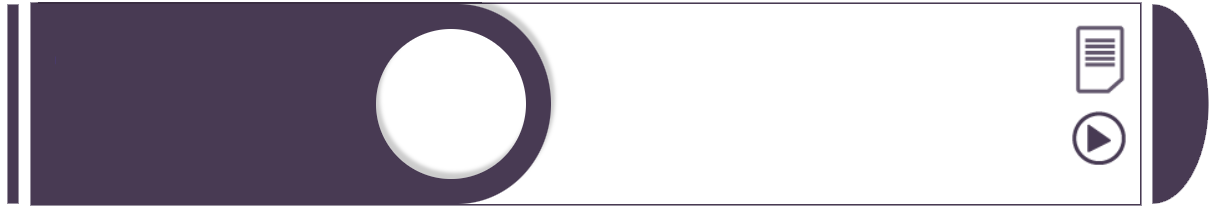
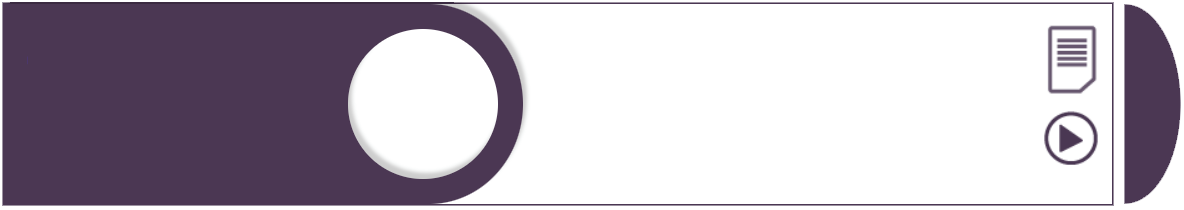
pat

Changed region(s): [[0.2812, 0.0, 0.4688, 0.9714], [0.875, 0.0, 0.9688, 0.9714], [0.0, 0.0, 0.0312, 1.0]]

diff --git a/Групповая политика/index.html b/Групповая политика/index.html
@@ -15,7 +15,7 @@
         <div class="container">
             <div class="inner">
                 <nav>
-                    <img src="image/logo.png" width="50" height="34" alt="">
+                    <img id="log" src="image/logo.png">
                     <a href="#openModal">
                         <h3>Информация<br> о контенте</h3>
                     </a>
@@ -32,7 +32,7 @@
         <div class="container">
             <div class="inner lines__views">
                 <h2>ТЕМА</h2>
-                <h2 style="color: black; font-size: 48px;">Администрирование Windows Server 2019</h2>
+                <h2 id="tema">Администрирование Windows Server 2019</h2>
                 <h2>СПО</h2>
             </div>
         </div>
@@ -41,13 +41,14 @@
     <div class="dish">
         <div class="container">
             <div class="dish__inner">
-                <div style="margin-right: 20%; margin-top: 4%;">
+            <div id="dishk">
+            
                     <div class="dish__block">
                         <div class="eurhgierug">
                           <a href="eom1/place.html">
-                            <img src="image/1.png" width="760" height="120" alt="">
+                            <img class="placef" src="image/1.png">
                           </a>
-                          <img class="ghgwreg" width="66" height="66" style="margin-bottom: 30px;" src="image/icon/1.png" alt="">
+                          <img class="ghgwreg"src="image/icon/1.png" >
                           <div class="ilehufrierg"></div>
                           <h3 class="iehrgie">Планирование материально<br>- техническое обеспечение</h3>
                           <h3 class="engoergegr">Освоение нового<br> материала</h3>
@@ -58,9 +59,9 @@
                         </div>
                         <div class="eurhgierug">
                           <a href="eom2/place2-1.html">
-                            <img src="image/2.png" width="760" height="120" alt="">
+                            <img class="placef"src="image/2.png">
                           </a>
-                          <img class="ghgwreg" width="66" height="66" src="image/icon/2.png" alt="">
+                          <img class="ghgwreg" src="image/icon/2.png">
                           <div class="ilehufrierg"></div>
                           <h3 class="iehrgie">Организация произведенно<br>технического обеспечения АПК</h3>
                           <h3 class="engoergegr">Применение<br> изученного<br> материала</h3>
@@ -71,10 +72,10 @@
                         </div>
                         <div class="eurhgierug">
                           <a href="eom3/quiz.html">
-                            <img src="image/3.png" width="760" height="120" alt="">
+                            <img class="placef" src="image/3.png">
                           </a>
-                          <img class="ghgwreg" width="66" height="66" src="image/icon/3.png" alt="">
-                          <div class="ilehufrierg" style="top: 53px;"></div>
+                          <img class="ghgwreg"src="image/icon/3.png">
+                          <div class="ilehufrierg" ></div>
                           <h3 class="iehrgie">Организация произведенно<br>технического обеспечения АПК</h3>
                           <h3 class="engoergegr">Диагностика<br> приобретенных<br> знаний, навыков</h3>
                           <p class="modals__text">Интарактивный тренажер по выполнению заданий</p>
@@ -83,14 +84,14 @@
                           </a>
                         </div>
                     </div>
-                </div>
-                <div   style="margin-top: -20px;margin-right: 50px;">
-                    <img src="image/set.png" alt="">
+          </div>
+                <div class="sets">
+                    <img src="image/set.png">
                     <div class="dish__text">
                         <h3>ФГОС СПО 09.02.06</h3>
                         <h4>Сетевое и системное адмнистрирование квалификация «системный администратор»</h4>
                         <h3>МДК 02.01</h3>
-                        <h4>МДК 02.01 Администрирование сетевых операционных систем</h4>
+                        <h4>Администрирование сетевых операционных систем</h4>
                     </div>
                 </div>
             </div>
@@ -108,10 +109,7 @@
               <p>Федеральный государственный образовательный стандарт среднего профессионального образования по специальности 09.02.07 «Информационные системы и программирование»
                 (утвержден приказом Минобрнауки России от 09.12.2016 №1547)</p>
             </div>
-            <!--<h3 class="modal-title">ПООП Профессионалитета:</h3>
-            <div class="modal-body">    
-              <p>54.02.01 Дизайн (по остраслям) утвержденный приказом Министерства просвещения РФ от 23 ноября 2020 г. N 658 </p>
-              </div>!-->
+  
             <h3 class="modal-title">Профессиональный модуль:</h3>
             <div class="modal-body">    
                 <p>09.02.06 Сетевое и системное администрирование</p>
@@ -175,7 +173,7 @@
                 <h3 class="modal-title">Рекомендации для преподавателя:</h3>
             </div>
             <div class="modal-body">  
-              <hr style="margin: 25px 0px;">
+              <hr>
               <p>
                 <ul>  
                 <li>организовать практическую, в т.ч. самостоятельную, деятельность обучающихся для отработки навыков решения определенных учебных заданий;
@@ -224,7 +222,7 @@
                 <li>Организовать просмотр динамической инфографики и последующую беседу по уточнению и конкретизации
                   </ul>
 
-              <hr style="margin: 25px 0px;">
+              <hr>
               <h3 class="modal-title">Рекомендации для преподавателя:</h3>
               <p>
                 <ul>  
@@ -270,10 +268,9 @@
                               <li>     При возникновении ошибок возвращайтесь к повторному изучению теоретического материала.
                 </ul>
 
-            <hr style="margin: 25px 0px;">
+            <hr>
             <h3 class="modal-title">Рекомендации для преподавателя:</h3>
             <p>
-              Преподаватель должен 
               <ul>  
               <li>организовать практическую, в т.ч. самостоятельную, деятельность обучающихся для отработки навыков решения определенных учебных заданий;
                 <li>обеспечить усвоение обучающимися знаний и способов действий на уровне применения их в разнообразных ситуациях;

diff --git a/Групповая политика/css/style.css b/Групповая политика/css/style.css
@@ -1,13 +1,17 @@
 * {
     padding: 0;
-    margin: 0;
+    margin: 0px;
     box-sizing: border-box;
     font-family: 'Roboto', sans-serif;
+    min-height: auto;
+    min-width: auto
 }
 
 body {
-    background: url(../image/back.png);
     background-size: cover;
+    margin: 10px 10px 0px 10px;
+    min-height: auto;
+    min-width: auto;
 }
 
 header {
@@ -15,19 +19,27 @@ header {
 }
 
 .container {
-    max-width: 96%;
+    
     margin: 0 auto;
     height: auto;
     width: auto;
-    min-width: 1300px;
+    
 }
+#tema {
+    font-size: 36px;
+    color: #000;
 
+}
 .inner {
     display: flex;
     justify-content: space-between;
     align-items: center;
+    
 }
-
+#log{
+    width:50px;
+     height:34px; 
+    }
 nav {
     display: flex;
 }
@@ -58,15 +70,36 @@ nav > a {
 .lines__views > p {
     font-size: 27px;
 }
-
+#dishk
+{
+margin-right: 10px;
+}
 .dish {
     margin-top: 3%;
 }
+.dish__block{
+    display: block;
+    margin: 10px;
+    min-width: 30%;
+    min-height: 30%;
+    width: auto;
+    height: auto;
+}
+.sets{
+    padding-right: 60px;
+    height: auto;
+    width: auto;
+    position:static;
+
+
+}   
+
 
 .dish__inner {
     display: flex;
     justify-content: space-between;
     align-items: flex-start;
+    margin-top: -20px;
 }
 
 .dish__text {
@@ -82,8 +115,12 @@ nav > a {
 .dish__text > h4 {
     width: 400px;
     margin: 10px 0px;
+    box-sizing: border-box;
+    padding-right: 10px;
 }
-
+hr {
+    margin: 25px 0px;
+}
 .modal {
     position: fixed;
     top: 0;
@@ -197,6 +234,15 @@ td,th {
     position: relative;
     background-color: white;
 }
+.placef {
+    display: block;
+    margin: 3px;
+    min-width: 20%;
+    min-height: 20%;
+    width: 800px;
+    height: 150px;
+    box-sizing: border-box;
+}
 
 .modal__hg {
     position: absolute;
@@ -239,9 +285,12 @@ td,th {
 
 .ghgwreg {
     position: absolute;
-    top: 25px;
+    top: 35px;
     left: 250px;
+    height: 80px;
+    width: 80px;
     z-index: 9999;
+
 }
 
 .engoergegr {
@@ -250,106 +299,4 @@ td,th {
     left: 34px;
     z-index: 9999;
     color: #fff;
-}
-
-@media screen and (max-width: 768px) {
-    body {
-        background-size: auto;
-    }
-
-    .container {
-        min-width: auto;
-    }
-
-    .inner {
-        flex-direction: column;
-        align-items: center;
-        text-align: center;
-    }
-
-    nav {
-        margin-top: 20px;
-    }
-
-    nav > a {
-        display: block;
-        margin: 10px auto;
-        border: none;
-    }
-
-    .lines__views > h2 {
-        font-size: 36px;
-    }
-
-    .lines__views > p {
-        font-size: 22px;
-    }
-
-    .dish__inner {
-        flex-direction: column;
-        align-items: center;
-    }
-
-    .dish__text > h3 {
-        width: auto;
-    }
-
-    .dish__text > h4 {
-        width: auto;
-        text-align: center;
-    }
-
-    .modal-content {
-        max-width: 80%;
-    }
-
-    .modal-title {
-        font-size: 36px;
-    }
-
-    .close {
-        font-size: 30px;
-        width: 30px;
-        height: 30px;
-        line-height: 1;
-        padding: 5px;
-    }
-
-    .modal-body > p {
-        font-size: 24px;
-    }
-
-    .modal__hg,
-    .modals__text,
-    .ilehufrierg,
-    .iehrgie,
-    .ghgwreg,
-    .engoergegr {
-        display: none;
-    }
-}
-
-@media screen and (max-width: 768px) {
-    .eurhgierug {
-        margin-right: 0;
-        margin-top: 4%;
-        text-align: center;
-    }
-
-    .eurhgierug img {
-        width: 100%;
-        height: auto;
-    }
-
-    .ghgwreg {
-        margin-bottom: 15px;
-    }
-
-    .iehrgie, .engoergegr {
-        text-align: center;
-    }
-
-    .modals__text, .ilehufrierg {
-        display: none;
-    }
 }

diff --git a/Групповая политика/css/place.css b/Групповая политика/css/place.css
@@ -1,8 +1,11 @@
 
 * {
-    padding: 0;
-margin: 0;
+      padding: 0;
+    margin: 0px;
     box-sizing: border-box;
+    font-family: 'Roboto', sans-serif;
+    min-height: auto;
+    min-width: auto
 }
 
 .container {
@@ -36,7 +39,6 @@ margin: 0;
 .item {
     position: relative; /* Добавлено */
     width: 100%;
-    
     background-color: #f7f7f7;
     border: 1px solid #ccc;
     margin: 10px 0;
